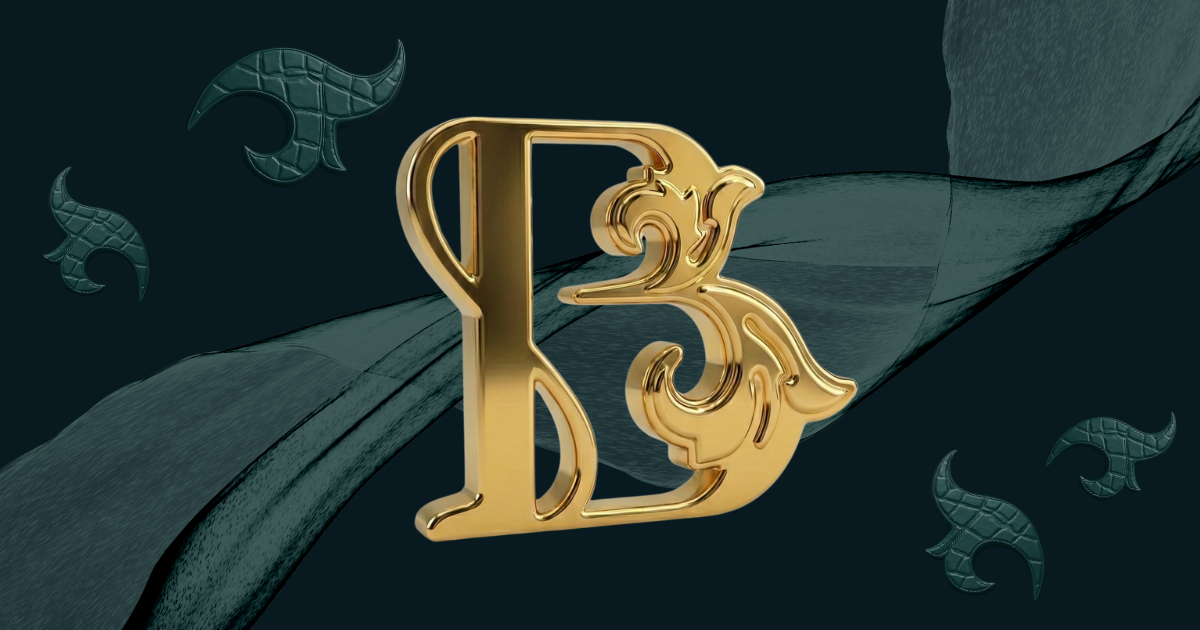
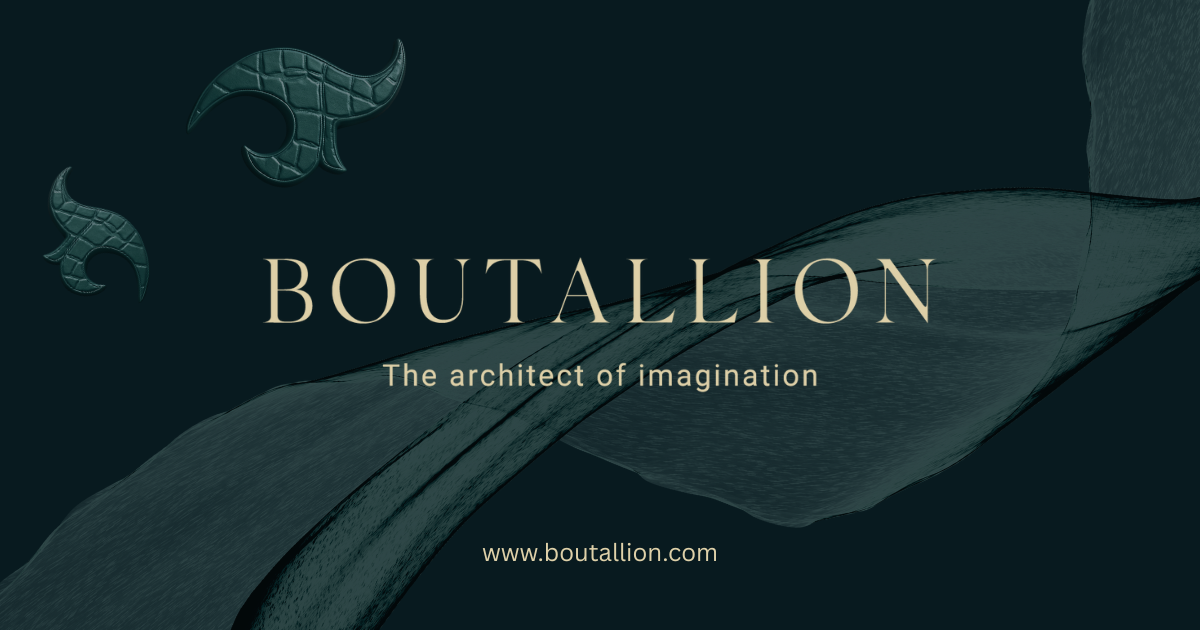
Update OG image and enhance visitor tracking - Update OG image to new version (1200x630) - Add comprehensive logging for Slack visitor notifications - Add environment variable checks and debugging - Create test endpoint for visitor tracking verification

diff --git a/app/api/visitors/route.ts b/app/api/visitors/route.ts
@@ -142,11 +142,16 @@ export async function POST(request: NextRequest) {
 
       // Send Slack notification for returning visitors (only on first return visit to avoid spam)
       if (newVisitCount === 2) {
-        console.log('📱 Attempting to send Slack notification for returning visitor...')
+        console.log('📱 ========================================')
+        console.log('📱 ATTEMPTING TO SEND SLACK NOTIFICATION FOR RETURNING VISITOR')
+        console.log('📱 ========================================')
+        console.log('📱 IP Address:', ipAddress)
+        console.log('📱 Visit Count:', newVisitCount)
+        console.log('📱 SLACK_WEBHOOK_URL exists:', !!process.env.SLACK_WEBHOOK_URL)
         try {
           const notificationResult = await sendVisitorNotification({
             ipAddress,
-            ipLabel, // Include label if available
+            ipLabel: ipLabel || undefined, // Include label if available
             location: {
               country: location?.country,
               city: location?.city,
@@ -167,9 +172,12 @@ export async function POST(request: NextRequest) {
             visitCount: newVisitCount,
             isNewVisitor: false,
           })
-          console.log('📱 Slack notification result:', notificationResult ? '✅ Sent' : '❌ Failed')
+          console.log('📱 SLACK NOTIFICATION RESULT:', notificationResult ? '✅ SENT SUCCESSFULLY' : '❌ FAILED')
+          if (!notificationResult) {
+            console.error('❌ Check SLACK_WEBHOOK_URL environment variable in Vercel')
+          }
         } catch (error) {
-          console.error('❌ Slack notification error:', error)
+          console.error('❌ SLACK NOTIFICATION ERROR:', error)
           console.error('❌ Error details:', error instanceof Error ? error.message : String(error))
         }
       }
@@ -217,10 +225,16 @@ export async function POST(request: NextRequest) {
       ])
 
       // Send Slack notification for new visitors
-      console.log('📱 Attempting to send Slack notification for new visitor...')
+      console.log('📱 ========================================')
+      console.log('📱 ATTEMPTING TO SEND SLACK NOTIFICATION FOR NEW VISITOR')
+      console.log('📱 ========================================')
       console.log('📱 IP Address:', ipAddress)
       console.log('📱 IP Label:', ipLabel || 'None')
       console.log('📱 Location:', location ? `${location.city}, ${location.country}` : 'Unknown')
+      console.log('📱 Device:', `${device.type} - ${device.browser} - ${device.os}`)
+      console.log('📱 SLACK_WEBHOOK_URL exists:', !!process.env.SLACK_WEBHOOK_URL)
+      console.log('📱 SLACK_WEBHOOK_URL preview:', process.env.SLACK_WEBHOOK_URL ? process.env.SLACK_WEBHOOK_URL.substring(0, 30) + '...' : 'NOT SET')
+      
       try {
         const notificationResult = await sendVisitorNotification({
           ipAddress,
@@ -245,14 +259,21 @@ export async function POST(request: NextRequest) {
           visitCount: 1,
           isNewVisitor: true,
         })
-        console.log('📱 Slack notification result:', notificationResult ? '✅ Sent' : '❌ Failed')
+        console.log('📱 ========================================')
+        console.log('📱 SLACK NOTIFICATION RESULT:', notificationResult ? '✅ SENT SUCCESSFULLY' : '❌ FAILED')
+        console.log('📱 ========================================')
         if (!notificationResult) {
-          console.warn('⚠ Slack notification returned false - check SLACK_WEBHOOK_URL environment variable')
+          console.error('❌ Slack notification returned false')
+          console.error('❌ Check SLACK_WEBHOOK_URL environment variable in Vercel')
+          console.error('❌ Make sure it is set for Production, Preview, and Development environments')
         }
       } catch (error) {
-        console.error('❌ Slack notification error:', error)
-        console.error('❌ Error details:', error instanceof Error ? error.message : String(error))
+        console.error('❌ ========================================')
+        console.error('❌ SLACK NOTIFICATION ERROR')
+        console.error('❌ ========================================')
+        console.error('❌ Error message:', error instanceof Error ? error.message : String(error))
         console.error('❌ Error stack:', error instanceof Error ? error.stack : 'No stack trace')
+        console.error('❌ Error type:', error instanceof Error ? error.constructor.name : typeof error)
       }
 
       return NextResponse.json({

diff --git a/app/api/test-visitor-tracking/route.ts b/app/api/test-visitor-tracking/route.ts
@@ -1,0 +1,84 @@
+import { NextRequest, NextResponse } from 'next/server'
+
+export const dynamic = 'force-dynamic'
+
+/**
+ * Test endpoint to verify visitor tracking and Slack notification setup
+ * GET /api/test-visitor-tracking
+ */
+export async function GET(request: NextRequest) {
+  const results: any = {
+    timestamp: new Date().toISOString(),
+    checks: {},
+    errors: [],
+  }
+
+  // Check environment variables
+  results.checks.slackWebhookUrl = {
+    exists: !!process.env.SLACK_WEBHOOK_URL,
+    preview: process.env.SLACK_WEBHOOK_URL 
+      ? process.env.SLACK_WEBHOOK_URL.substring(0, 30) + '...' 
+      : 'NOT SET',
+  }
+
+  results.checks.databaseUrl = {
+    exists: !!process.env.DATABASE_URL,
+    preview: process.env.DATABASE_URL 
+      ? process.env.DATABASE_URL.substring(0, 30) + '...' 
+      : 'NOT SET',
+  }
+
+  // Test database connection
+  try {
+    const { getDbPool } = await import('@/lib/db')
+    const db = getDbPool()
+    if (db) {
+      const testQuery = await db.query('SELECT COUNT(*) as count FROM visitors')
+      results.checks.database = {
+        connected: true,
+        visitorCount: parseInt(testQuery.rows[0].count, 10),
+      }
+    } else {
+      results.checks.database = {
+        connected: false,
+        error: 'Database pool is null',
+      }
+      results.errors.push('Database pool is null - DATABASE_URL may not be set')
+    }
+  } catch (error) {
+    results.checks.database = {
+      connected: false,
+      error: error instanceof Error ? error.message : String(error),
+    }
+    results.errors.push(`Database error: ${error instanceof Error ? error.message : String(error)}`)
+  }
+
+  // Test Slack notification function (dry run)
+  try {
+    const { sendVisitorNotification } = await import('@/lib/slack')
+    // Just check if function exists and webhook URL is available
+    results.checks.slackFunction = {
+      available: typeof sendVisitorNotification === 'function',
+      webhookConfigured: !!process.env.SLACK_WEBHOOK_URL,
+    }
+  } catch (error) {
+    results.checks.slackFunction = {
+      available: false,
+      error: error instanceof Error ? error.message : String(error),
+    }
+    results.errors.push(`Slack function error: ${error instanceof Error ? error.message : String(error)}`)
+  }
+
+  // Overall status
+  results.status = results.errors.length === 0 ? 'OK' : 'ERRORS FOUND'
+  results.summary = {
+    slackConfigured: !!process.env.SLACK_WEBHOOK_URL,
+    databaseConnected: results.checks.database?.connected || false,
+    ready: results.errors.length === 0 && !!process.env.SLACK_WEBHOOK_URL && results.checks.database?.connected,
+  }
+
+  return NextResponse.json(results, {
+    status: results.errors.length === 0 ? 200 : 500,
+  })
+}
+

diff --git a/lib/slack.ts b/lib/slack.ts
@@ -60,8 +60,15 @@ export interface VisitorNotificationData {
 export async function sendVisitorNotification(data: VisitorNotificationData): Promise<boolean> {
   const webhookUrl = process.env.SLACK_WEBHOOK_URL
 
+  console.log('📱 ========================================')
+  console.log('📱 sendVisitorNotification called')
+  console.log('📱 ========================================')
+  console.log('📱 SLACK_WEBHOOK_URL exists:', !!webhookUrl)
+  console.log('📱 SLACK_WEBHOOK_URL value:', webhookUrl ? webhookUrl.substring(0, 50) + '...' : 'NOT SET')
+  
   if (!webhookUrl) {
-    console.log('📱 Slack webhook not configured, skipping visitor notification')
+    console.error('❌ Slack webhook not configured, skipping visitor notification')
+    console.error('❌ Please set SLACK_WEBHOOK_URL in Vercel environment variables')
     return false
   }
   
@@ -69,6 +76,7 @@ export async function sendVisitorNotification(data: VisitorNotificationData): Pr
     ipAddress: data.ipAddress,
     isNewVisitor: data.isNewVisitor,
     hasLocation: !!data.location,
+    ipLabel: data.ipLabel,
   })
 
   try {
